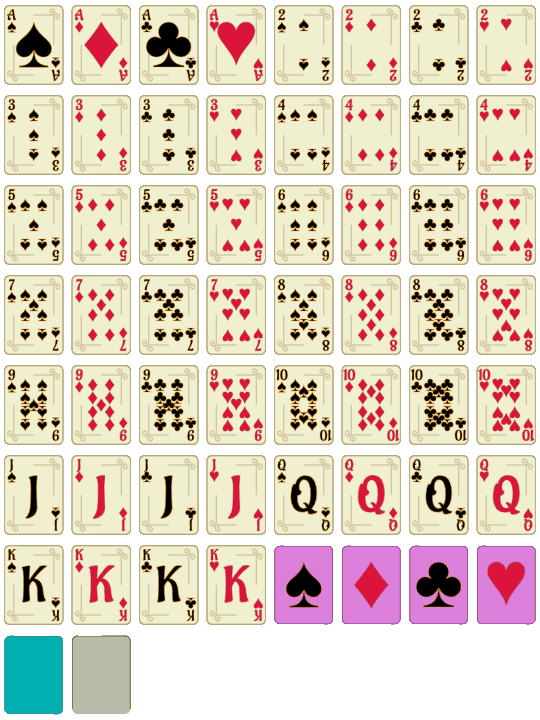
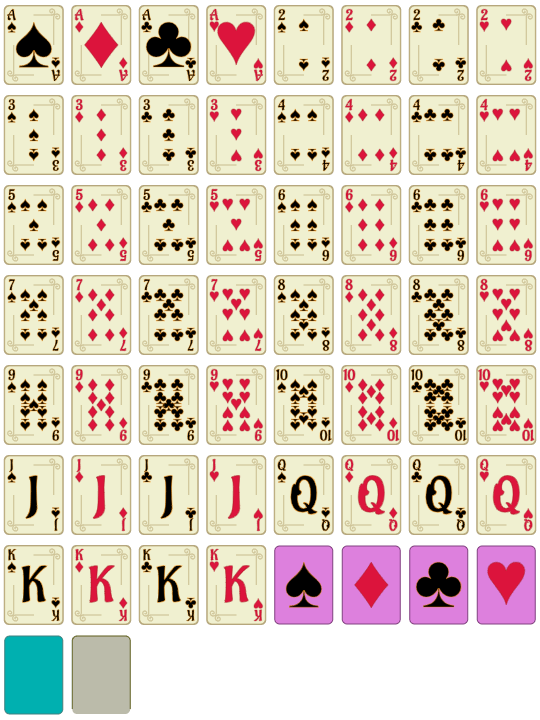
small restyling

diff --git a/src/app/freecell/freecell-playground/freecell-playground.component.scss b/src/app/freecell/freecell-playground/freecell-playground.component.scss
@@ -37,8 +37,9 @@
 
   background-size: 900% 900%;
   background-repeat: no-repeat;
+  background-color: transparent;
 
-  border-radius: 8.333% / 6.25%;
+  // border-radius: 8.333% / 6.25%;
 }
 
 div.use-svg-background {
@@ -48,7 +49,7 @@ div.use-svg-background {
 }
 
 .freecell_spot {
-  background-color: #dadaca;
+  // background-color: #dadaca;
 
   &.freecell_selection {
     outline-style: dotted;
@@ -64,17 +65,17 @@ div.use-svg-background {
 
   &.freecell_pile { @include bg_pos(57); }
   &.freecell_base {
-    background-color: #f0b0f0;
+    // background-color: #f0b0f0;
     @include bg_rank(13);
   }
   &.freecell_cell {
-    background-color: lightseagreen;
+    // background-color: lightseagreen;
     @include bg_pos(56);
   }
 }
 
 .freecell_card {
-  background-color: #f4f4d8;
+  // background-color: #f4f4d8;
   &.freecell_Ace { @include bg_rank(0); }
   &.freecell_Two { @include bg_rank(1); }
   &.freecell_Three { @include bg_rank(2); }
